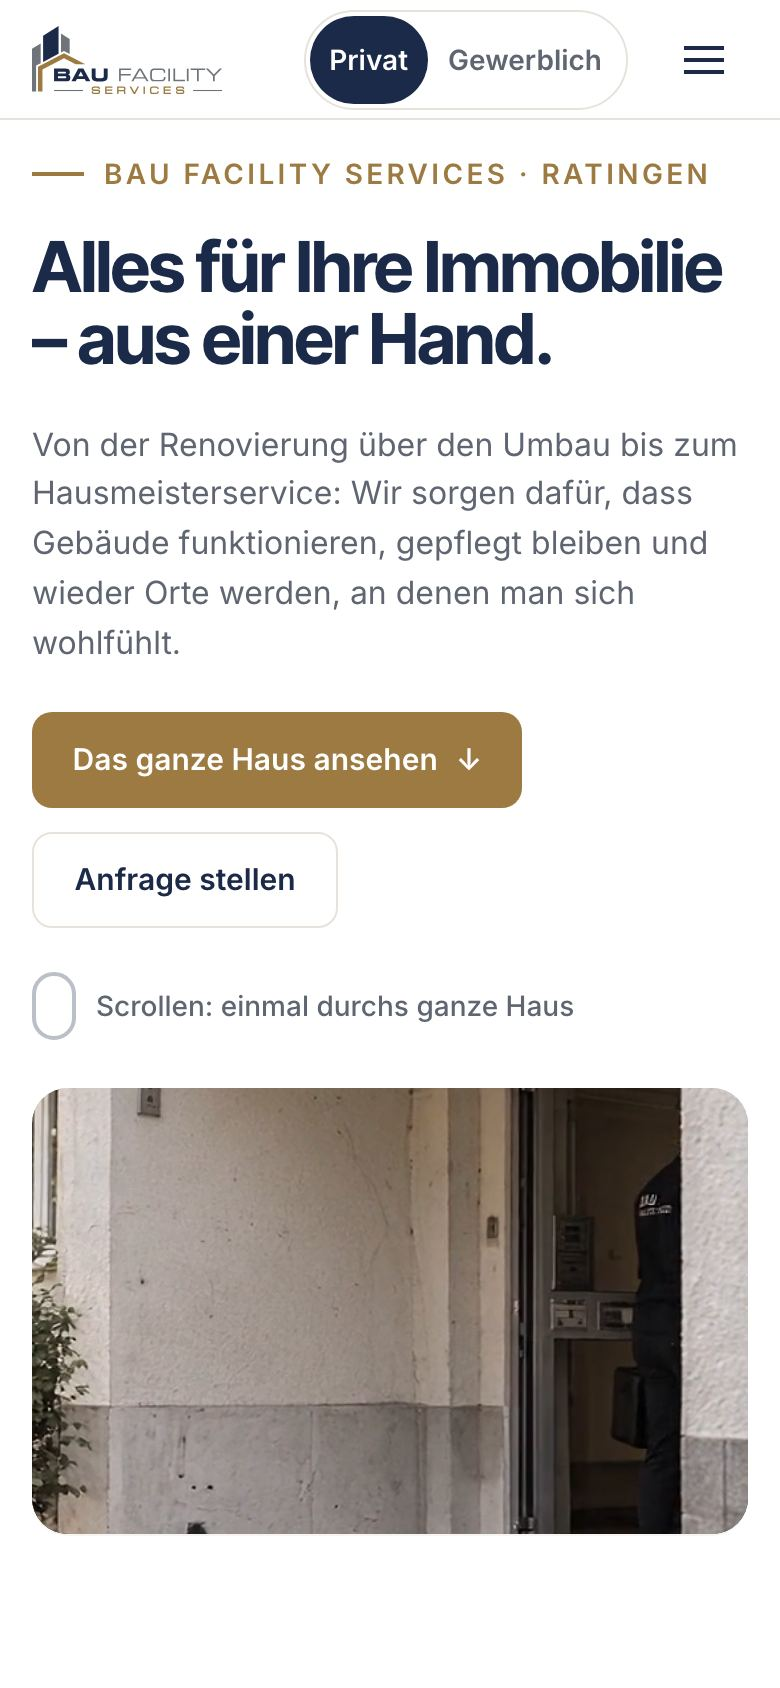
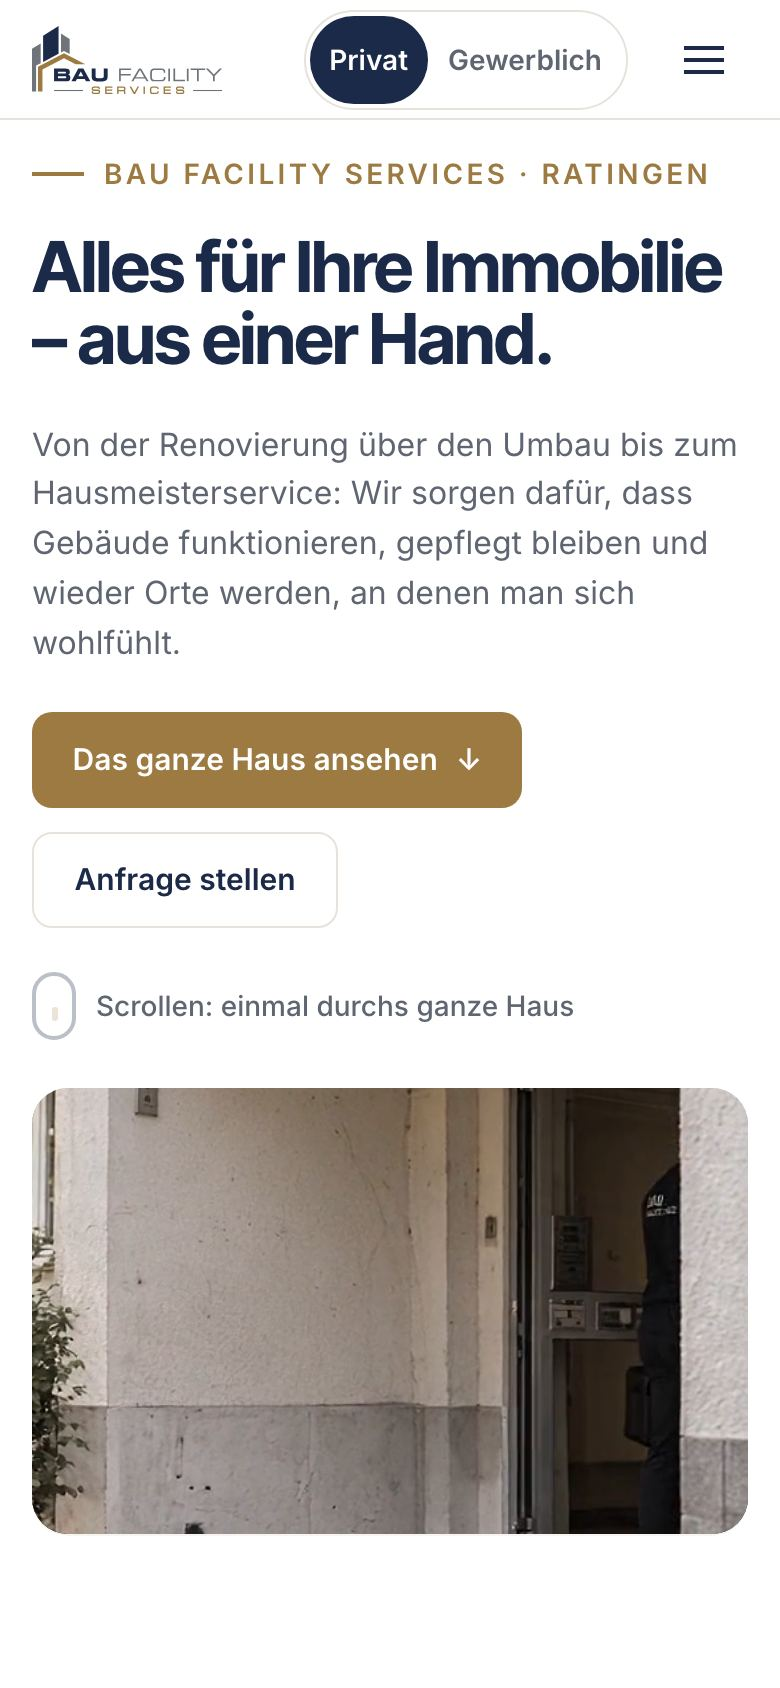
Foto Firmenparkplatz Winterdienst (10/10)

diff --git a/site/assets/manifest.js b/site/assets/manifest.js
@@ -1,1 +1,1 @@
-window.ASSETS={"img": {"a1-ansprechpartner": {"sizes": [1800], "w": 2048, "h": 1136}, "d1-dach": {"sizes": [1800], "w": 2048, "h": 1136}, "e1-eg-vorher": {"sizes": [1800, 2560], "w": 2560, "h": 1440}, "e2-eg-nachher": {"sizes": [1800, 2560], "w": 2560, "h": 1440}, "f1-schnitt": {"sizes": [1800, 2560, 3584], "w": 3584, "h": 2016}, "f2-fassade": {"sizes": [1800, 2560, 3584], "w": 3584, "h": 2016}, "hf1": {"sizes": [1800], "w": 2048, "h": 1136}, "hf2": {"sizes": [1800], "w": 2048, "h": 1136}, "hf3": {"sizes": [1800, 2560], "w": 2560, "h": 1440}, "hf4": {"sizes": [1800, 2560], "w": 2560, "h": 1440}, "hk1": {"sizes": [1800], "w": 2048, "h": 1136}, "hk2": {"sizes": [1800], "w": 2048, "h": 1136}, "hk3": {"sizes": [1800], "w": 2048, "h": 1136}, "hk4": {"sizes": [1800, 2560], "w": 2560, "h": 1440}, "hk5": {"sizes": [1800, 2560], "w": 2560, "h": 1440}, "k1-keller": {"sizes": [1800, 2560], "w": 2560, "h": 1440}, "m4-vorort": {"sizes": [1800, 2560], "w": 2560, "h": 1440}, "o1-bad-vorher": {"sizes": [1800], "w": 2048, "h": 1136}, "o2-bad-arbeit": {"sizes": [1800], "w": 2048, "h": 1136}, "o3-bad-ergebnis": {"sizes": [1800], "w": 2048, "h": 1136}, "t1-team": {"sizes": [1800, 2560], "w": 2560, "h": 1440}, "w1-schnitt": {"sizes": [1800, 2560, 3584], "w": 3584, "h": 2016}, "w2-fassade": {"sizes": [1800, 2560, 3584], "w": 3584, "h": 2016}}, "video": {"vorort": {"desktop": "assets/video/vorort-desktop.mp4", "mobile": "assets/video/vorort-mobile.mp4"}}};
+window.ASSETS={"img": {"a1-ansprechpartner": {"sizes": [1800], "w": 2048, "h": 1136}, "d1-dach": {"sizes": [1800], "w": 2048, "h": 1136}, "e1-eg-vorher": {"sizes": [1800, 2560], "w": 2560, "h": 1440}, "e2-eg-nachher": {"sizes": [1800, 2560], "w": 2560, "h": 1440}, "f1-schnitt": {"sizes": [1800, 2560, 3584], "w": 3584, "h": 2016}, "f2-fassade": {"sizes": [1800, 2560, 3584], "w": 3584, "h": 2016}, "hf1": {"sizes": [1800], "w": 2048, "h": 1136}, "hf2": {"sizes": [1800], "w": 2048, "h": 1136}, "hf3": {"sizes": [1800, 2560], "w": 2560, "h": 1440}, "hf4": {"sizes": [1800, 2560], "w": 2560, "h": 1440}, "hf5": {"sizes": [1800], "w": 2048, "h": 1136}, "hk1": {"sizes": [1800], "w": 2048, "h": 1136}, "hk2": {"sizes": [1800], "w": 2048, "h": 1136}, "hk3": {"sizes": [1800], "w": 2048, "h": 1136}, "hk4": {"sizes": [1800, 2560], "w": 2560, "h": 1440}, "hk5": {"sizes": [1800, 2560], "w": 2560, "h": 1440}, "k1-keller": {"sizes": [1800, 2560], "w": 2560, "h": 1440}, "m4-vorort": {"sizes": [1800, 2560], "w": 2560, "h": 1440}, "o1-bad-vorher": {"sizes": [1800], "w": 2048, "h": 1136}, "o2-bad-arbeit": {"sizes": [1800], "w": 2048, "h": 1136}, "o3-bad-ergebnis": {"sizes": [1800], "w": 2048, "h": 1136}, "t1-team": {"sizes": [1800, 2560], "w": 2560, "h": 1440}, "w1-schnitt": {"sizes": [1800, 2560, 3584], "w": 3584, "h": 2016}, "w2-fassade": {"sizes": [1800, 2560, 3584], "w": 3584, "h": 2016}}, "video": {"vorort": {"desktop": "assets/video/vorort-desktop.mp4", "mobile": "assets/video/vorort-mobile.mp4"}}};
